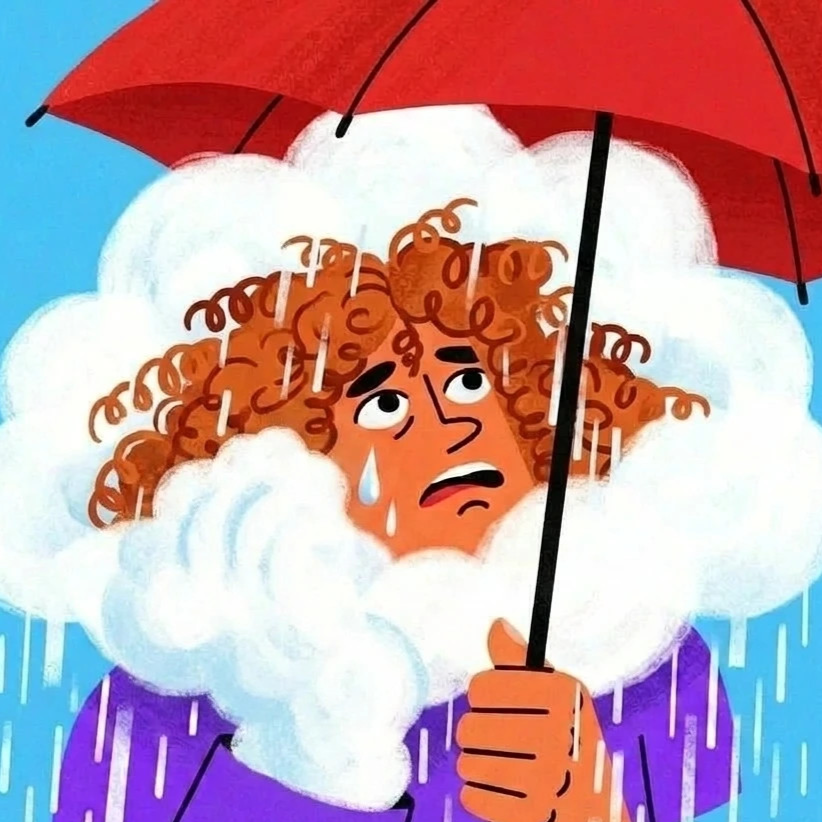
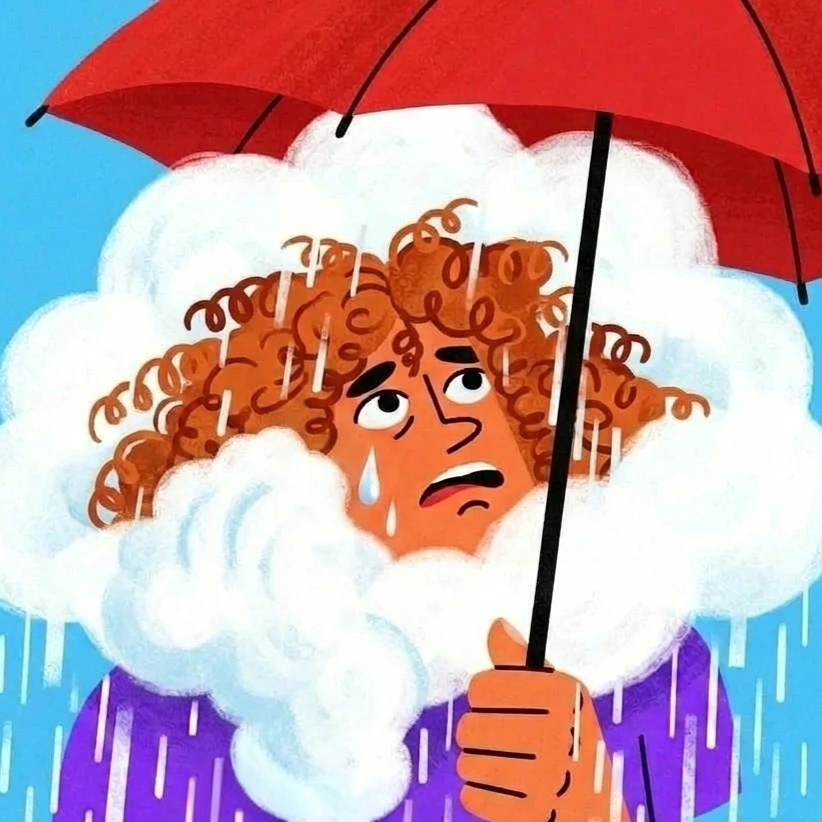
Update Weather (Humanoid) scout image

Changed region(s): [[0.2129, 0.882, 0.517, 1.0]]

diff --git a/index.html b/index.html
@@ -80,7 +80,7 @@
       <figure class="scout-card reveal"><div class="scout-img"><img src="assets/scouts/science-a.png" alt="Science Scout — Humanoid" loading="lazy" /></div><figcaption><div class="cap-row"><span class="scout-name">Science</span><span class="scout-tag tag-humanoid">Humanoid</span></div><p class="scout-spirit">Endlessly curious — turns every question into a small, joyful experiment.</p></figcaption></figure>
       <figure class="scout-card reveal"><div class="scout-img"><img src="assets/scouts/sports-a.png" alt="Sports Scout — Humanoid" loading="lazy" /></div><figcaption><div class="cap-row"><span class="scout-name">Sports</span><span class="scout-tag tag-humanoid">Humanoid</span></div><p class="scout-spirit">All energy and hustle — the teammate who never stops moving.</p></figcaption></figure>
       <figure class="scout-card reveal"><div class="scout-img"><img src="assets/scouts/technology-a.png" alt="Technology Scout — Humanoid" loading="lazy" /></div><figcaption><div class="cap-row"><span class="scout-name">Technology</span><span class="scout-tag tag-humanoid">Humanoid</span></div><p class="scout-spirit">Quietly clever — the tinkerer making tomorrow feel effortless and fun.</p></figcaption></figure>
-      <figure class="scout-card reveal"><div class="scout-img"><img src="assets/scouts/weather-a.png" alt="Weather Scout — Humanoid" loading="lazy" /></div><figcaption><div class="cap-row"><span class="scout-name">Weather</span><span class="scout-tag tag-humanoid">Humanoid</span></div><p class="scout-spirit">Reads the sky's every mood — sunny, stormy, always game.</p></figcaption></figure>
+      <figure class="scout-card reveal"><div class="scout-img"><img src="assets/scouts/weather-a.png?2" alt="Weather Scout — Humanoid" loading="lazy" /></div><figcaption><div class="cap-row"><span class="scout-name">Weather</span><span class="scout-tag tag-humanoid">Humanoid</span></div><p class="scout-spirit">Reads the sky's every mood — sunny, stormy, always game.</p></figcaption></figure>
       <figure class="scout-card reveal"><div class="scout-img"><img src="assets/scouts/books-a.png" alt="Books Scout — Humanoid" loading="lazy" /></div><figcaption><div class="cap-row"><span class="scout-name">Books</span><span class="scout-tag tag-humanoid">Humanoid</span></div><p class="scout-spirit">A head full of stories — always mid-chapter, always ready for one more.</p></figcaption></figure>
       <figure class="scout-card reveal"><div class="scout-img"><img src="assets/scouts/horoscope-a.png?2" alt="Horoscope Scout — Humanoid" loading="lazy" /></div><figcaption><div class="cap-row"><span class="scout-name">Horoscope</span><span class="scout-tag tag-humanoid">Humanoid</span></div><p class="scout-spirit">Head in the stars — reads the room and the cosmos, always sensing what's next.</p></figcaption></figure>
     </div>